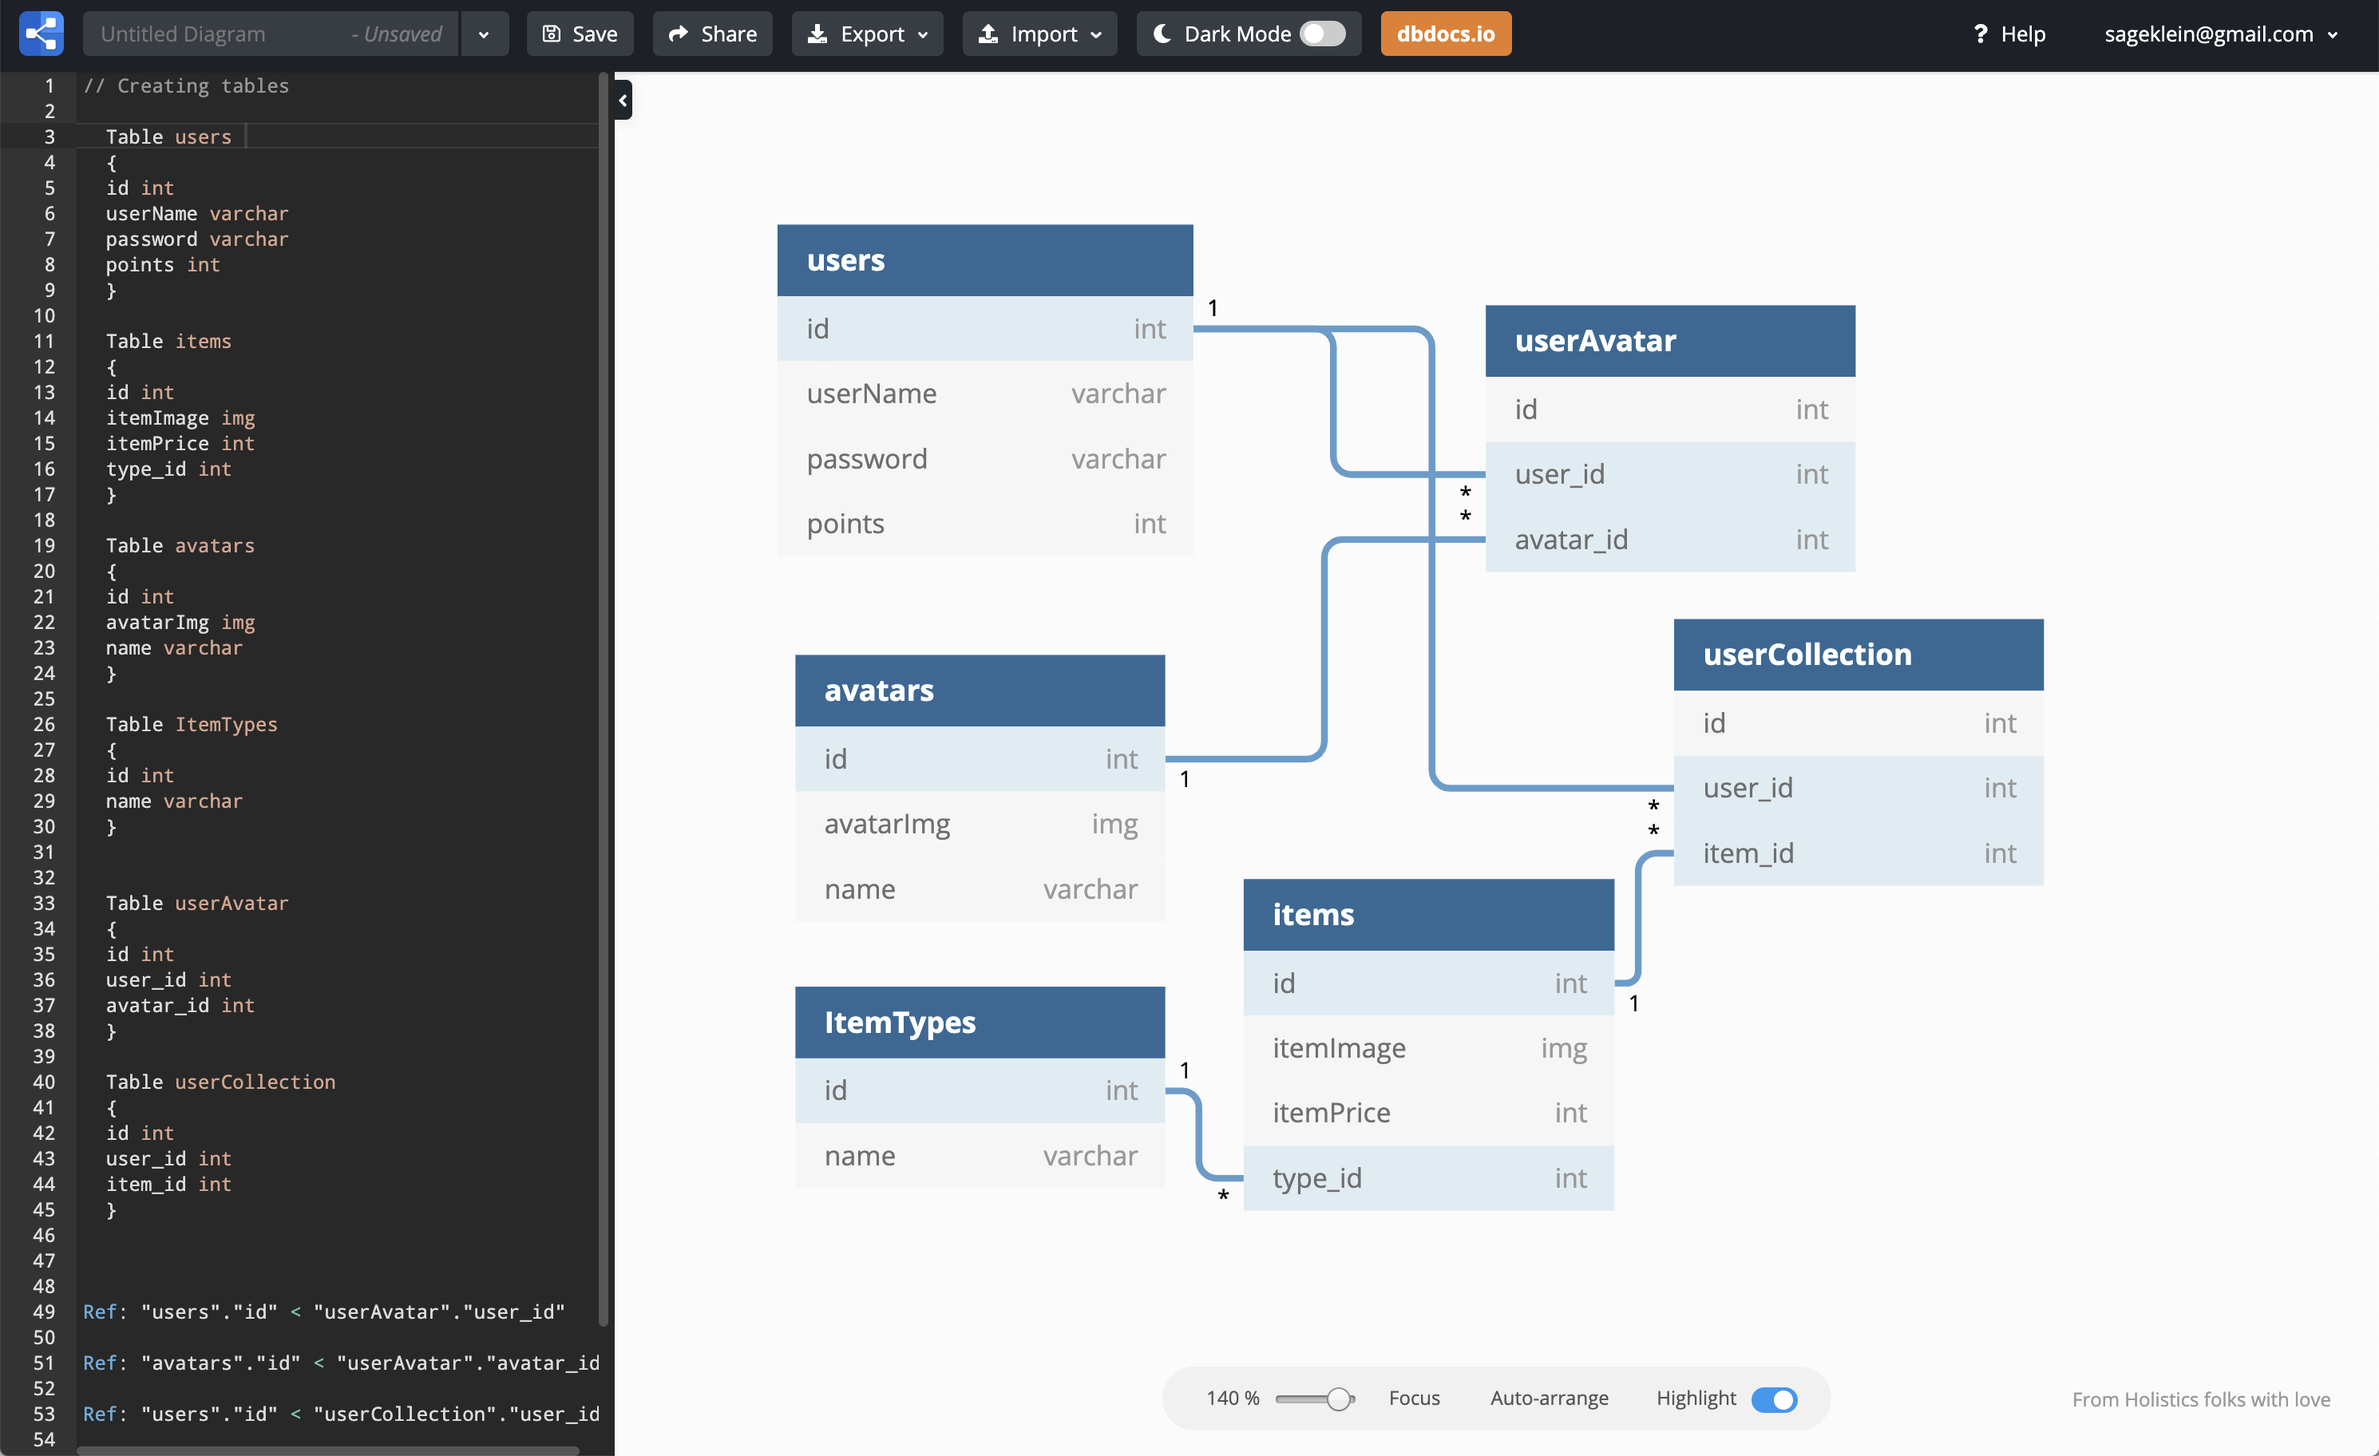
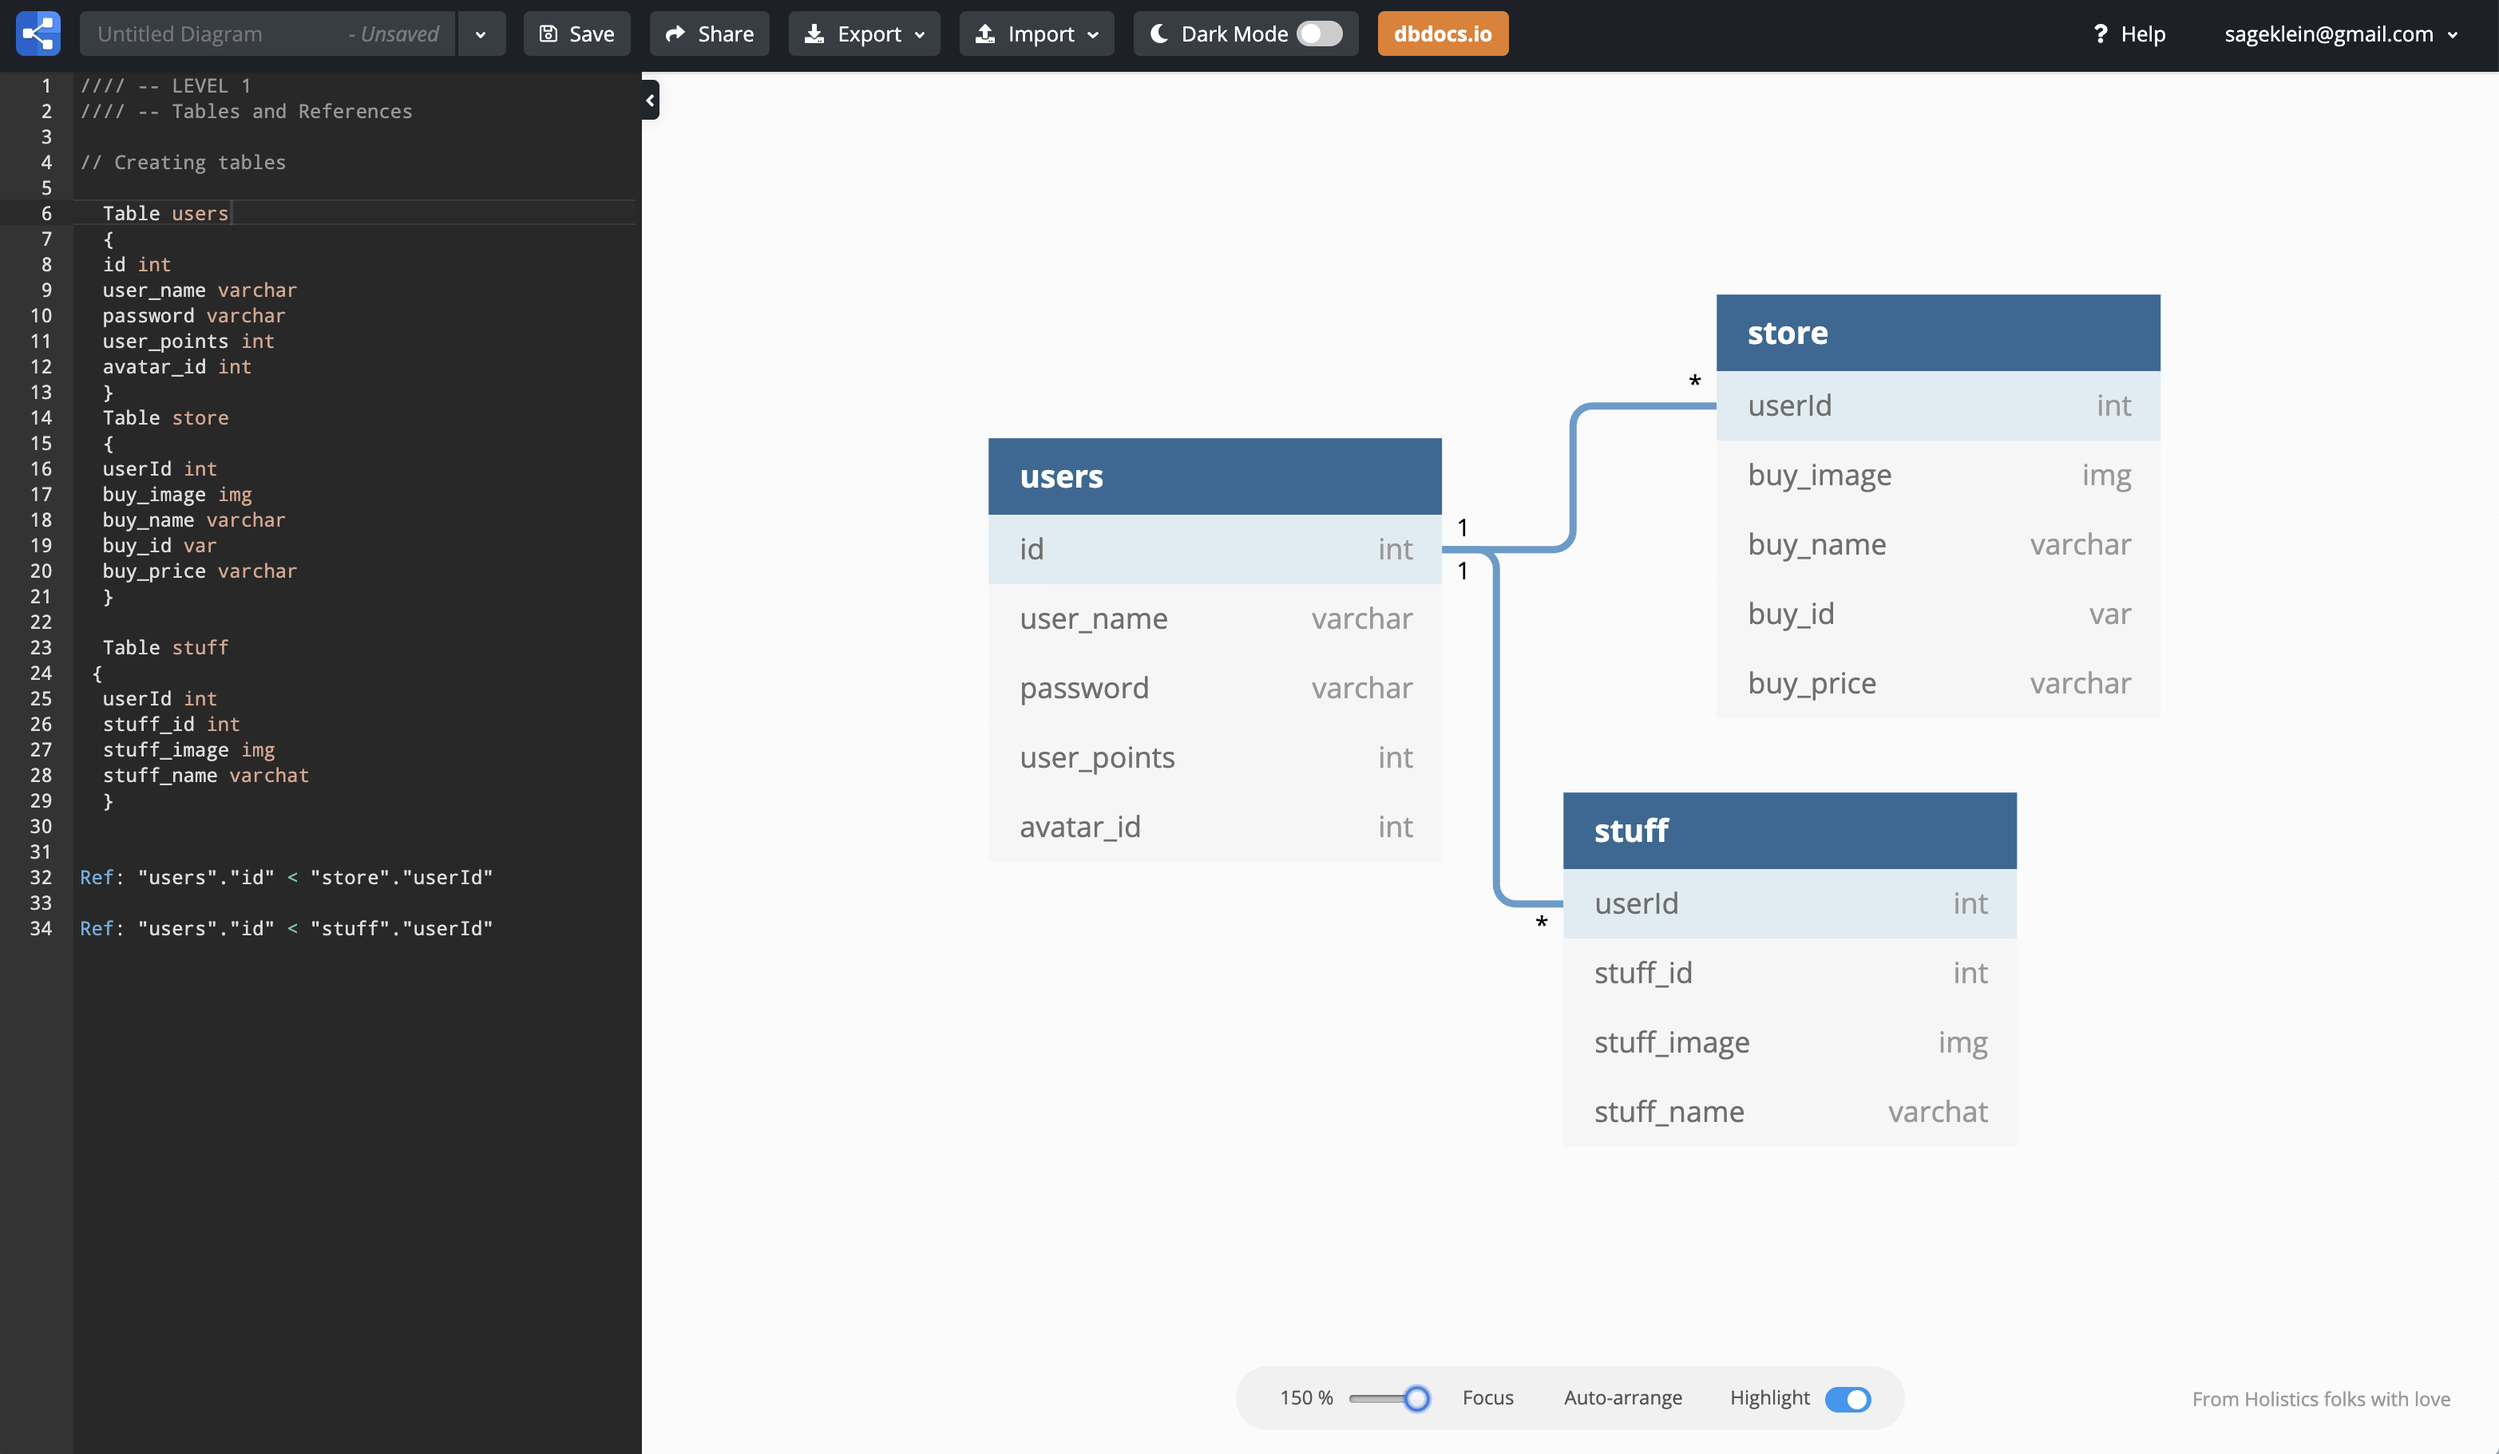
BUY WORKS!!!

diff --git a/src/components/StuffCard.js b/src/components/StuffCard.js
@@ -6,13 +6,26 @@ import "../../src/css/ItemTable.css";
 
 class StuffCard extends Component {
 	state = {
-		items: [],
+		collections: [],
 		image: [],
 		modal: false
 	};
-
-	handleDelete = id => {
-		APIManager.delete(id).then(() => this.props.getData());
+	componentDidMount() {
+		console.log("Item LIST: ComponentDidMount");
+		APIManager.getAll().then(collections => {
+			this.setState({
+				collections: collections
+			});
+		});
+	}
+	delete = () => {
+		APIManager.delete("1").then(() => {
+			APIManager.getCollection().then(collection => {
+				this.setState({
+					collection: collection
+				});
+			});
+		});
 	};
 	modal = () => {
 		this.setState(modal => ({
@@ -27,7 +40,6 @@ class StuffCard extends Component {
 	};
 
 	render() {
-		console.log("image", `../images/${this.props.item}`);
 		return (
 			<>
 				<div className="Card">
@@ -51,7 +63,11 @@ class StuffCard extends Component {
 							<ModalFooter>
 								<Button
 									className="delete"
-									onClick={() => this.props.handleDelete(this.props.item.id)}
+									onClick={() =>
+										this.handleSave(
+											this.props.collection.id
+										)
+									}
 								>
 									Delete
 								</Button>{" "}

diff --git a/src/components/modules/APIManager.js b/src/components/modules/APIManager.js
@@ -5,23 +5,30 @@ export default {
 		return fetch(`${remoteURL}/items/${id}`).then(result => result.json());
 	},
 	getAll() {
-		return fetch(`${remoteURL}/items`).then(result => result.json());
+		return fetch(`${remoteURL}/items/`).then(result => result.json());
 	},
-	getCollection() {
-		return fetch(`${remoteURL}/collections`).then(result => result.json());
+	getCollection(id) {
+		return fetch(`${remoteURL}/collections/${id}`).then(result =>
+			result.json()
+		);
+	},
+	getCollectionItem() {
+		return fetch(`${remoteURL}/collectionItem/`).then(result =>
+			result.json()
+		);
 	},
 	delete(id) {
-		return fetch(`http://localhost:5002/items/${id}`, {
+		return fetch(`http://localhost:5002/collectionItems/${id}`, {
 			method: "DELETE"
 		}).then(result => result.json());
 	},
-	post(newItem) {
-		return fetch("http://localhost:5002/stuffList", {
+	post(collectionItem) {
+		return fetch(`${remoteURL}/collectionItems`, {
 			method: "POST",
 			headers: {
 				"Content-Type": "application/json"
 			},
-			body: JSON.stringify(newItem)
+			body: JSON.stringify(collectionItem)
 		}).then(data => data.json());
 	},
 	update(editedItem) {

diff --git a/src/components/StoreList.js b/src/components/StoreList.js
@@ -1,6 +1,6 @@
 import React, { Component } from "react";
-import ItemCard from "./StoreCard"
-import APIManager from "./modules/APIManager"
+import StoreCard from "./StoreCard"
+// import APIManager from "./modules/APIManager"
 import "../../src/css/ItemTable.css";
 
 class StoreList extends Component {
@@ -8,36 +8,15 @@ class StoreList extends Component {
 		items: []
 	};
 
-	componentDidMount() {
-		console.log("Item LIST: ComponentDidMount");
-		APIManager.getAll().then(items => {
-			this.setState({
-				items: items
-			});
-		});
-	}
-	getData = () => {
-		APIManager.getAll().then(
-			items => {
-				this.setState({
-					items: items
-				});
-			}
-		);
-	};
-
 	render() {
 		return (
 			<>
 				<div className="StoreTable">
-					<section className="collectionParent"></section>
-					{this.state.items.map(item => (
-						<ItemCard
-							props={this.state.items}
-							getData={this.getData}
+					<section className="storeCard"></section>
+					{this.props.items.map(item => (
+						<StoreCard
 							key={item.id}
 							item={item}
-							name={item.name}
 							{...this.props}
 						/>
 					))}

diff --git a/src/components/Stuff.js b/src/components/Stuff.js
@@ -2,15 +2,28 @@ import React, { Component } from "react";
 import NavBar from "../components/NavBar";
 import Footer from "../components/Footer";
 import StuffList from "./StuffList";
-// import APIManager from "../../modules/APIManager";
+import APIManager from "../components/modules/APIManager";
 import "../../src/css/Store.css";
 
 class Stuff extends Component {
+	state = {
+		collection: 1,
+	};
+	getData = () => {
+		APIManager.getCollection(1).then(collection => {
+			this.setState({
+				collection: collection
+			});
+		});
+	}
+
+	componentDidMount() {
+		this.getData();
+	}
 	render() {
 		return (
 			<>
 				<NavBar />
-
 				<div className="Store">
 					<img
 						src={require("../images/Points.png")}
@@ -25,7 +38,11 @@ class Stuff extends Component {
 						/>
 					</div>
 					<div className="stuffList">
-						<StuffList {...this.props} />
+						<StuffList
+							collection={this.state.collection}
+							getData={this.getData}
+							{...this.props}
+						/>
 					</div>
 				</div>
 				<Footer />

diff --git a/src/components/StuffList.js b/src/components/StuffList.js
@@ -1,28 +1,11 @@
 import React, { Component } from "react";
 import StuffCard from "./StuffCard";
-import APIManager from "./modules/APIManager";
+// import APIManager from "./modules/APIManager";
 import "../../src/css/ItemTable.css";
 
 class StuffList extends Component {
 	state = {
-		collections: []
-	};
-
-	delete = id => {
-		APIManager.delete(id).then(() => {
-			APIManager.getAll().then(collections => {
-				this.setState({
-					collections: collections
-				});
-			});
-		});
-	};
-	getData = () => {
-		APIManager.getAll().then(collections => {
-			this.setState({
-				collections: collections
-			});
-		});
+		collection: []
 	};
 
 	render() {
@@ -33,11 +16,9 @@ class StuffList extends Component {
 					{this.state.collections.map(collection => (
 						<StuffCard
 							getData={this.getData}
-							props={this.state.items}
 							key={collection.id}
 							collection={collection}
 							name={collection.name}
-							delete={this.delete}
 							{...this.props}
 						/>
 					))}

diff --git a/src/components/Store.js b/src/components/Store.js
@@ -2,15 +2,28 @@ import React, { Component } from "react";
 import NavBar from "../components/NavBar";
 import Footer from "../components/Footer";
 import StoreList from "./StoreList"
-// import APIManager from "../../modules/APIManager";
+import APIManager from "../components/modules/APIManager";
 import "../../src/css/Store.css";
 
 class Store extends Component {
+	state = {
+		items: []
+	};
+	getData = () => {
+		APIManager.getAll().then(items => {
+			this.setState({
+				items: items
+			});
+		});
+	}
+
+	componentDidMount() {
+		this.getData();
+	}
 	render() {
 		return (
 			<>
 				<NavBar />
-
 				<div className="Store">
 					<img
 						src={require("../images/Points.png")}
@@ -26,9 +39,12 @@ class Store extends Component {
 					</div>
 					<div className="Accessories">
 						<StoreList
+							items={this.state.items}
+							getData={this.getData}
+							{...this.props}
 						/>
 					</div>
-					</div>
+				</div>
 				<Footer />
 			</>
 		);

diff --git a/src/components/StoreCard.js b/src/components/StoreCard.js
@@ -9,13 +9,19 @@ import "../../src/css/ItemTable.css";
 class StoreCard extends Component {
 	state = {
 		image: [],
+		item: "",
 		modal: false
 	};
 
-    handleSave = () => { 
-		APIManager.post("items", this.props.item.id)
+	handleSave = (id) => {
+		let collectionItem = {
+			collectionId : 1,
+			itemId : id
+		}
+		APIManager.post(collectionItem)
 			.then(() => this.props.getData())
-			.then(() => this.props.history.push("/stuff"));};
+			// .then(() => this.props.history.push("/store"));
+	};
 
 	modal = () => {
 		this.setState(modal => ({
@@ -53,9 +59,10 @@ class StoreCard extends Component {
 							<ModalFooter>
 								<Button
 									className="buy"
-									onClick={() =>
-										this.handleSave(this.state.item)
-									}
+									onClick={() => {
+										this.handleSave(this.props.item.id)
+										this.toggle()
+									}}
 								>
 									Buy
 								</Button>{" "}

diff --git a/README.md b/README.md
@@ -9,7 +9,7 @@ Website: sageklein.com
 
 Slack Handle: Sage Klein
 
-Github: (https://github.com/sageklein/sidekick)
+Github: (https://sageklein.github.io/Sidekick2.0/#/)
 
 
 
@@ -20,6 +20,10 @@ Sidekick is a behavioral modification Website Application for Teachers and Stude
 
 Sidekick provides a platform for Teachers to reward Students' positive behavior with points. The points may be used by the Students on an online Web Application. The Student side of the Application will provide a store to spend points, a collection page to view items purchased and view their Sidekick on a runway to display their new purchases and designs. 
 
+## Challange Statment: 
+
+How might I provide a platform for Teachers to motivate students, modifying negative behavior through positive reinforcement, in a fun and creative way students will be excited about. 
+
 ## Personas
 <img src="RM-images/kid.png" alt="Child Persona">
 <img src="RM-images/teacher.png" alt="Teacher Persona">
@@ -28,7 +32,7 @@ Sidekick provides a platform for Teachers to reward Students' positive behavior 
 <img src="RM-images/erd.png" alt="ERD">
 
 ## Application Features
-- Student can Login
+
 - Student can view their Sidekick
 - Student can view Accessories Purchased
 - Student can view points
@@ -46,24 +50,33 @@ http://figma.com
 
 https://reactjs.org
 
+## Inspiration Research
+
+<img src="RM-images/my_prodigy.jpg" alt="My Prodigy">
+<img src="RM-images/my_prodigy2.png" alt="My Prodigy">
+
+## Hi-Fi Mockup
+
+<img src="RM-images/figma.png" alt="Hi-Fi Mockup">
 
 ## Dependencies used to create Sidekick:
 
-1. User Research
-1. User Testing
-1. Lo-Fi Mockups
-1. Hi-Fi Mockups
-1. Journey Mapping
-2. Databases/API
-3. Github
-4. CSS
-5. Flexbox
-6. React
-7. Reactstrap/Bootstrap
-8. Modals
-9. Data entry/editing
-10. Relational data
-11. Session Storage
+- User Research
+- Personas
+- User Testing
+- Lo-Fi Mockups
+- Hi-Fi Mockups
+- Journey Mapping
+- Databases/API
+- Github
+- CSS
+- Flexbox
+- React
+- Reactstrap/Bootstrap
+- Modals
+- Data entry/editing
+- Relational data
+
 
 ## How to Launch Sidekick:
 
@@ -73,4 +86,4 @@ https://reactjs.org
 4. In the API directory, create a file called "database.json"
 5. Copy the sample data below into database.json
 6. Run json-server in port 5002 with database.json
-7. In the terminal, type the command "npm start". You are now ready to use Classroom Sidekick!
+7. In the terminal, type the command "npm start". You are now ready to use Sidekick!
